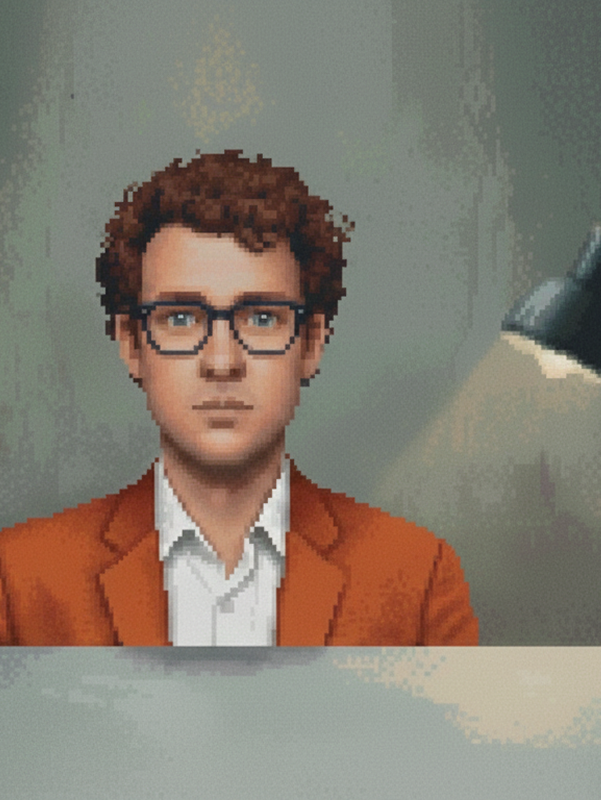
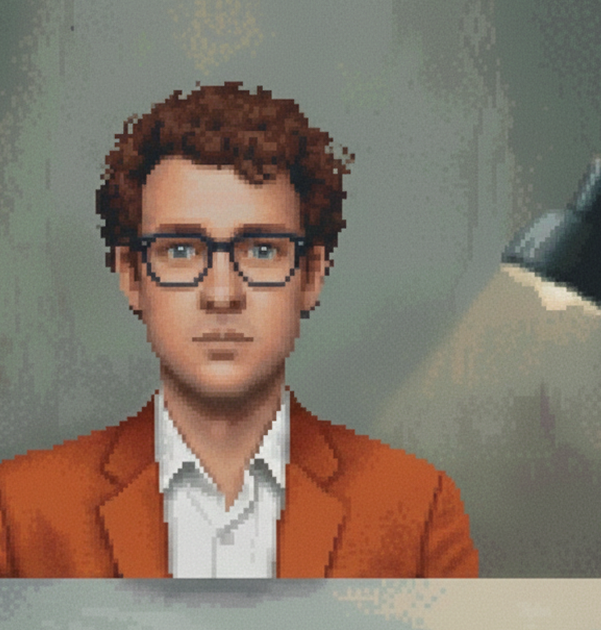
improve ui

diff --git a/web/src/widgets/murder-in-the-valley.tsx b/web/src/widgets/murder-in-the-valley.tsx
@@ -309,8 +309,7 @@ function useTypewriter(text: string, speed: number = 40) {
 // Dialogue text chunks
 const introDialogue = [
   "The Valley is a small, peaceful community located in the mountains, known for its beautiful scenery and its passion for AI.",
-  "One day, a shocking murder occurred...",
-  "Claude, a friendly AI bot, has been found dead at his home.",
+  "One day, a shocking murder occurred... Claude, a friendly AI bot, has been found dead at his home.",
   "Three suspects have been identified.",
   "Your task is to interrogate each one and uncover the truth behind this mysterious murder.",
 ];
@@ -328,10 +327,10 @@ const DialogueBox = ({
   onSkip: () => void;
 }) => (
   <div
-    className="dialogue-box dialogue-slide-up p-4 lg:p-6 cursor-pointer select-none"
+    className="dialogue-box dialogue-slide-up px-4 py-3 lg:px-6 lg:py-4 cursor-pointer select-none"
     onClick={isComplete ? onContinue : onSkip}
   >
-    <p className="font-pixel text-xs sm:text-sm lg:text-base text-amber-100 leading-relaxed lg:leading-loose min-h-16 lg:min-h-20">
+    <p className="font-pixel text-xs sm:text-sm lg:text-base text-amber-100 leading-relaxed lg:leading-loose min-h-12 lg:min-h-14">
       {text}
       {!isComplete && <span className="cursor-blink text-amber-300">▌</span>}
     </p>
@@ -360,7 +359,7 @@ const IntroScreen = ({ onContinue }: { onContinue: () => void }) => {
   };
 
   return (
-    <div className="relative rounded-2xl overflow-hidden min-h-[450px] lg:min-h-[550px]">
+    <div className="relative rounded-2xl overflow-hidden min-h-[320px] sm:min-h-[380px] lg:min-h-[450px]">
       {/* Background - dark crime scene */}
       <div className="absolute inset-0 bg-linear-to-b from-[#0a0a0f] via-[#0f0f1a] to-[#1a1025]" />
 
@@ -382,21 +381,21 @@ const IntroScreen = ({ onContinue }: { onContinue: () => void }) => {
       />
 
       {/* Crime scene tape / ambient elements */}
-      <div className="absolute top-4 left-0 right-0 h-6 bg-yellow-500/10 -rotate-2 flex items-center justify-center overflow-hidden">
-        <span className="font-pixel text-[8px] text-yellow-500/30 tracking-[0.5em] whitespace-nowrap">
+      <div className="absolute top-2 sm:top-4 left-0 right-0 h-5 sm:h-6 bg-yellow-500/10 -rotate-2 flex items-center justify-center overflow-hidden">
+        <span className="font-pixel text-[6px] sm:text-[8px] text-yellow-500/30 tracking-[0.5em] whitespace-nowrap">
           CRIME SCENE DO NOT CROSS CRIME SCENE DO NOT CROSS CRIME SCENE
         </span>
       </div>
 
       {/* Robot scene container */}
-      <div className="absolute inset-0 flex items-center justify-center pb-32">
+      <div className="absolute inset-0 flex items-center justify-center pb-20 sm:pb-24 lg:pb-28">
         {/* Dead robot with reveal animation */}
         <div
           className={`relative transition-all duration-3000 ease-out ${
             sceneRevealed ? "opacity-100 scale-100" : "opacity-0 scale-95"
           }`}
         >
-          <DeadRobotClaude className="w-48 h-32 sm:w-64 sm:h-44 lg:w-80 lg:h-56 robot-flicker" />
+          <DeadRobotClaude className="w-40 h-28 sm:w-56 sm:h-40 lg:w-72 lg:h-48 robot-flicker" />
 
           {/* Spark effects around damaged areas */}
           <SparkEffect className="spark w-4 h-4 top-[30%] right-[25%]" delay={0} />
@@ -406,10 +405,10 @@ const IntroScreen = ({ onContinue }: { onContinue: () => void }) => {
       </div>
 
       {/* Floor shadow */}
-      <div className="absolute bottom-24 left-1/2 -translate-x-1/2 w-64 h-8 bg-black/50 rounded-full blur-xl" />
+      <div className="absolute bottom-16 sm:bottom-20 lg:bottom-24 left-1/2 -translate-x-1/2 w-48 sm:w-56 lg:w-64 h-6 sm:h-8 bg-black/50 rounded-full blur-xl" />
 
       {/* Dialogue box at bottom */}
-      <div className="absolute bottom-0 left-0 right-0 p-4 lg:p-6">
+      <div className="absolute bottom-0 left-0 right-0 p-3 sm:p-4 lg:p-6">
         <DialogueBox text={displayedText} isComplete={isComplete} onContinue={handleContinue} onSkip={skip} />
       </div>
     </div>
@@ -465,7 +464,7 @@ const SuspectCard = ({
 }) => {
   return (
     <div
-      className={`card-stagger-in w-32 sm:w-40 lg:w-48 flex flex-col items-center cursor-pointer transition-all duration-200 ${
+      className={`card-stagger-in w-28 sm:w-36 lg:w-44 flex flex-col items-center cursor-pointer transition-all duration-200 ${
         isHighlighted ? "scale-105" : "hover:scale-105"
       }`}
       style={{ animationDelay: `${index * 0.1}s` }}
@@ -473,7 +472,7 @@ const SuspectCard = ({
     >
       {/* Card */}
       <div
-        className={`w-28 h-36 sm:w-36 sm:h-48 lg:w-44 lg:h-60 rounded-lg border-2 overflow-hidden transition-all duration-200 ${
+        className={`w-24 h-28 sm:w-32 sm:h-36 lg:w-40 lg:h-44 rounded-lg border-2 overflow-hidden transition-all duration-200 ${
           isHighlighted ? "border-yellow-400 ring-2 ring-yellow-400/50" : "border-purple-500/50 hover:border-purple-400"
         }`}
       >
@@ -482,12 +481,10 @@ const SuspectCard = ({
 
       {/* Name */}
       <div
-        className={`mt-2 px-3 py-1 rounded transition-colors duration-200 ${isHighlighted ? "bg-yellow-400/20" : ""}`}
+        className={`mt-1.5 px-2 py-0.5 rounded transition-colors duration-200 ${isHighlighted ? "bg-yellow-400/20" : ""}`}
       >
         <span
-          className={`font-pixel text-sm sm:text-base tracking-wider ${
-            isHighlighted ? "text-yellow-300" : "text-white"
-          }`}
+          className={`font-pixel text-xs sm:text-sm tracking-wider ${isHighlighted ? "text-yellow-300" : "text-white"}`}
         >
           {suspect.name.toUpperCase()}
         </span>
@@ -495,7 +492,7 @@ const SuspectCard = ({
 
       {/* Role */}
       <p
-        className={`text-[10px] sm:text-xs uppercase tracking-wider text-center ${
+        className={`text-[9px] sm:text-[10px] uppercase tracking-wider text-center ${
           isHighlighted ? "text-yellow-400/70" : "text-purple-400/60"
         }`}
       >
@@ -516,17 +513,17 @@ const MainScreen = ({
   onInterrogate: (name: string) => void;
 }) => {
   return (
-    <div className="screen-enter relative rounded-2xl overflow-hidden min-h-[450px] lg:min-h-[550px] bg-linear-to-b from-[#0a0a0f] via-[#1a1025] to-[#0f1a2a]">
+    <div className="screen-enter relative rounded-2xl overflow-hidden min-h-[320px] sm:min-h-[360px] lg:min-h-[420px] bg-linear-to-b from-[#0a0a0f] via-[#1a1025] to-[#0f1a2a]">
       {/* Header */}
-      <div className="text-center pt-6 lg:pt-8">
-        <h2 className="header-glow font-pixel text-base sm:text-lg lg:text-xl text-purple-200 tracking-wider">
+      <div className="text-center pt-3 sm:pt-4 lg:pt-5">
+        <h2 className="header-glow font-pixel text-sm sm:text-base lg:text-lg text-purple-200 tracking-wider">
           THE SUSPECTS
         </h2>
-        <p className="mt-2 text-xs sm:text-sm text-slate-400">Choose a suspect to interrogate</p>
+        <p className="mt-1 text-[10px] sm:text-xs text-slate-400">Choose a suspect to interrogate</p>
       </div>
 
       {/* Suspects lineup */}
-      <div className="absolute bottom-4 lg:bottom-6 left-0 right-0 flex justify-evenly items-start px-4">
+      <div className="absolute bottom-3 sm:bottom-4 lg:bottom-5 left-0 right-0 flex justify-evenly items-start px-2 sm:px-4">
         {suspects.map((suspect, index) => (
           <SuspectCard
             key={suspect.name}

diff --git a/server/src/server.ts b/server/src/server.ts
@@ -104,22 +104,4 @@ server.widget(
   },
 );
 
-server.tool(
-  "interrogate",
-  "Switch the suspect to interrogate",
-  {
-    suspect: z.string().describe("The suspect you want to interrogate"),
-  },
-  async ({ suspect }): Promise<CallToolResult> => {
-    return {
-      content: [],
-      structuredContent: {
-        type: "text",
-        text: `The user will now interrogate ${suspect}. Answer the user's question as if you were ${suspect}.`,
-      },
-      isError: false,
-    };
-  },
-);
-
 export default server;
